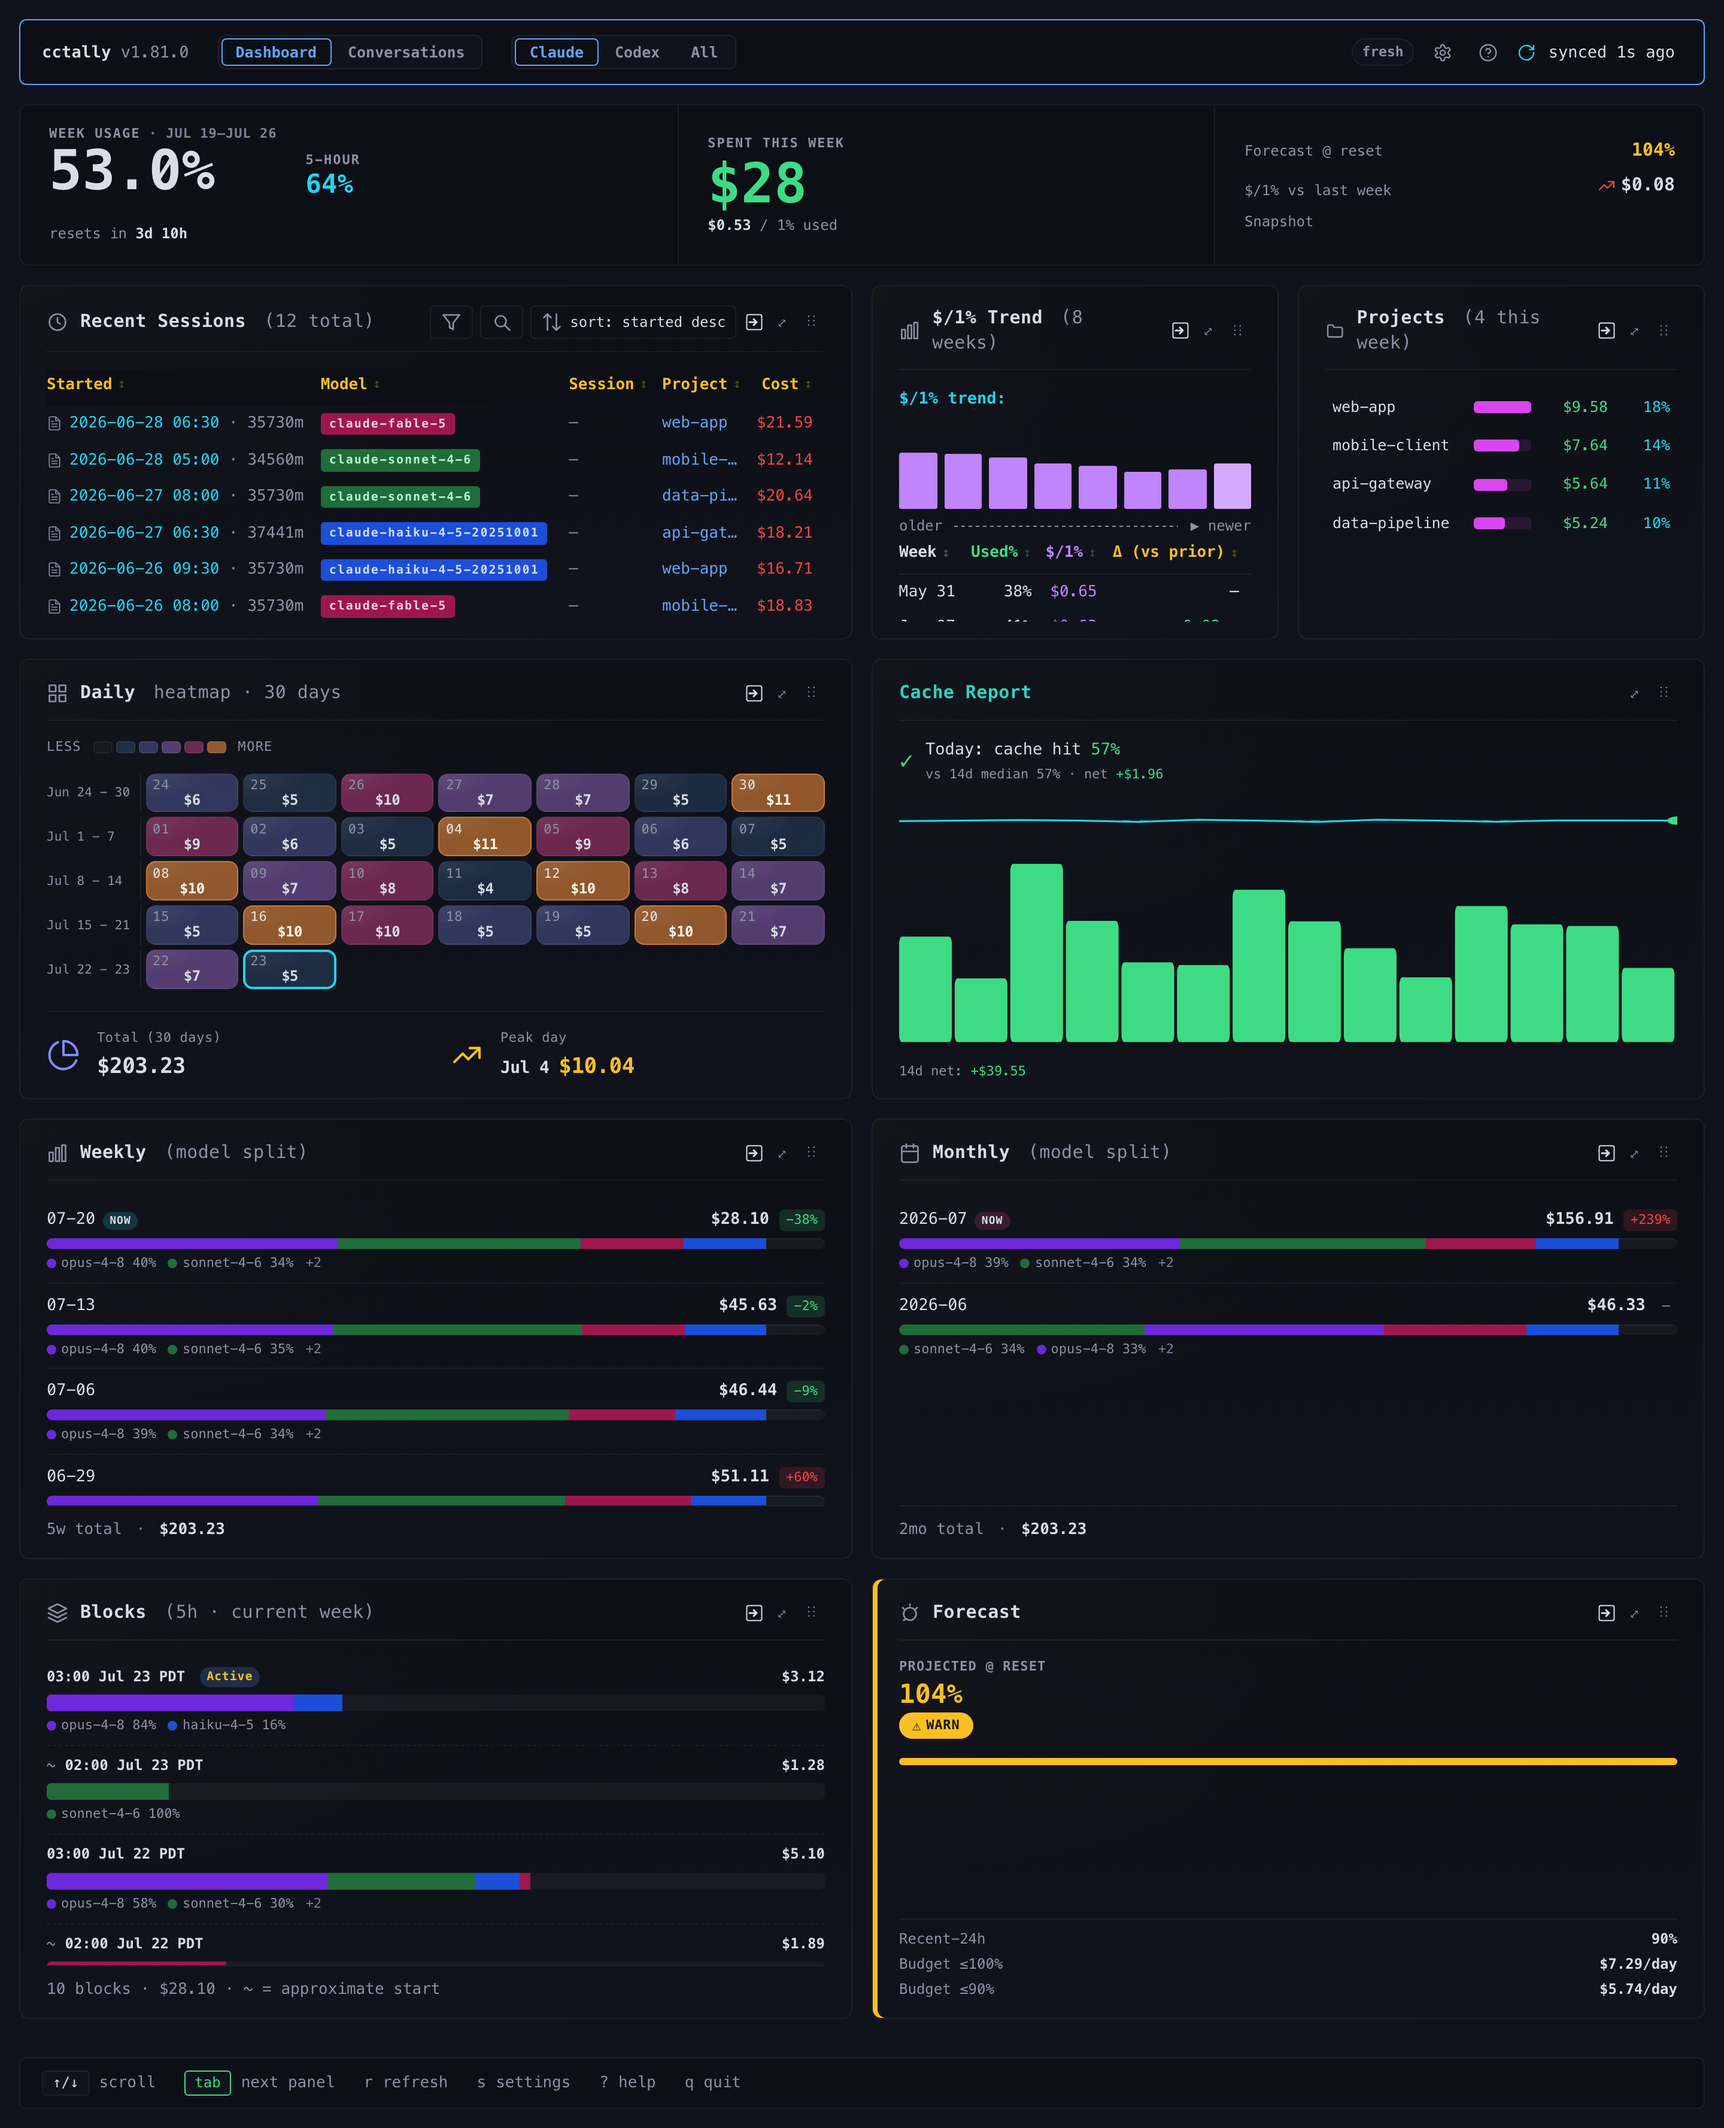
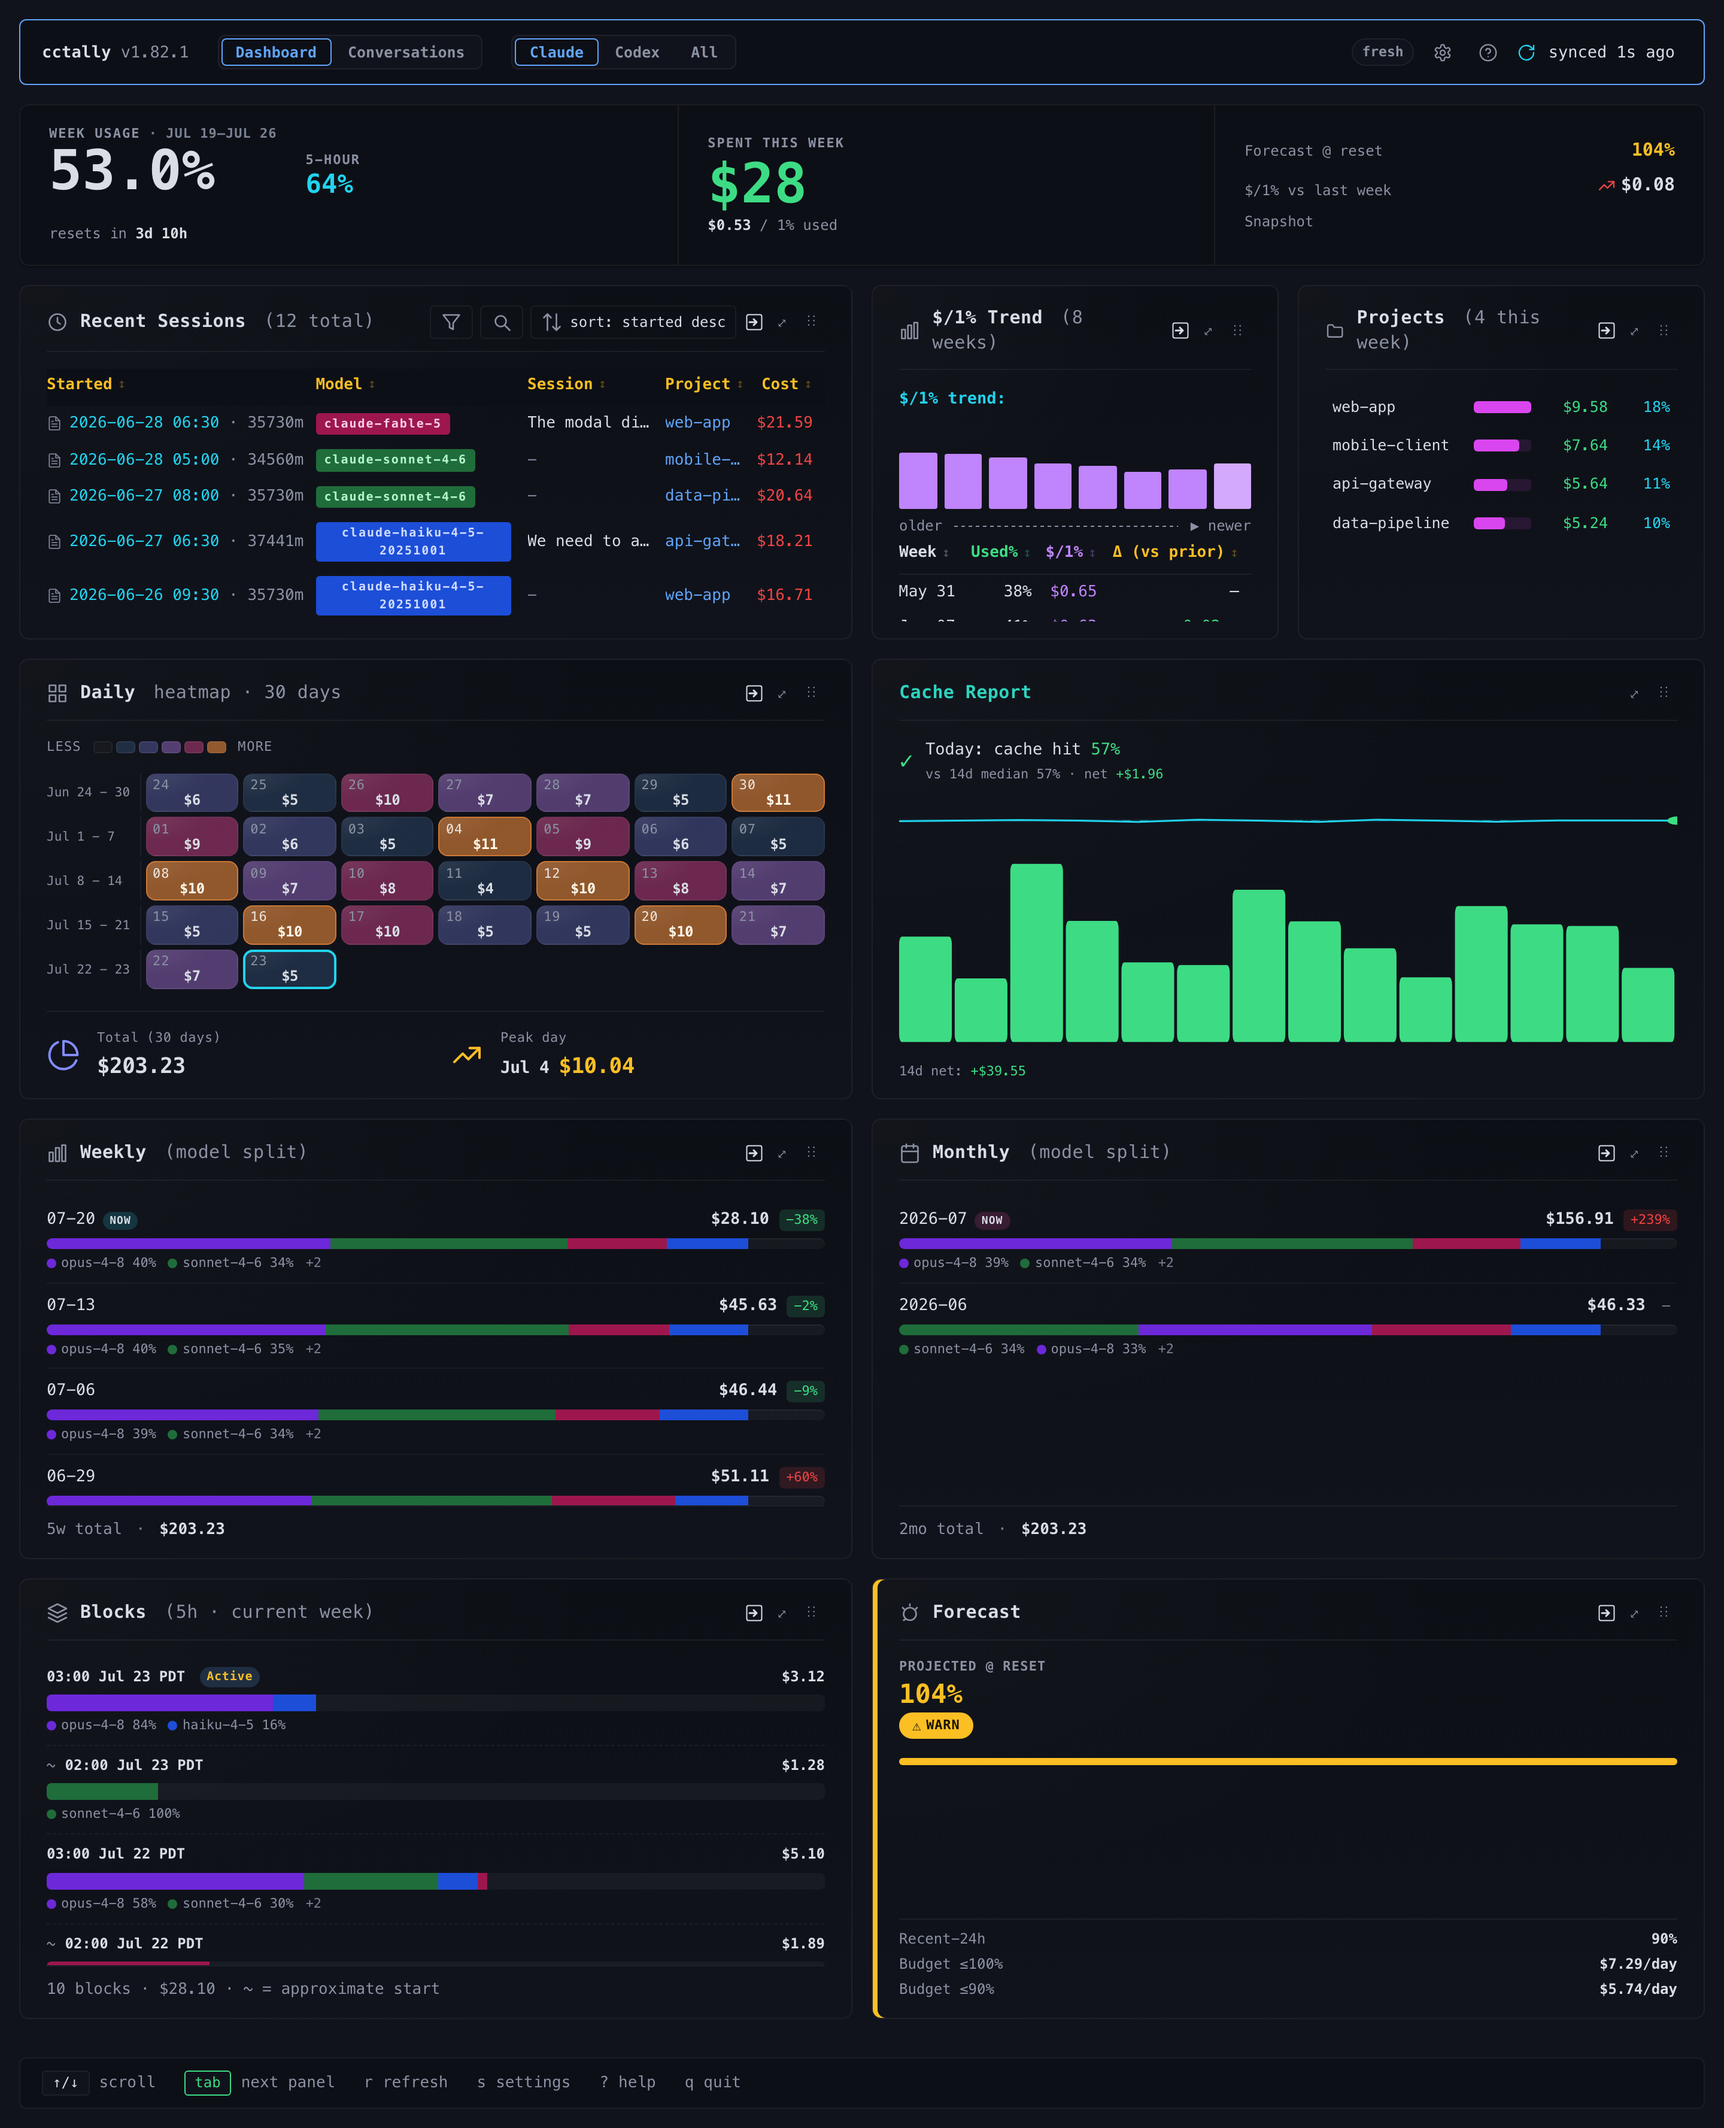
readme refresh for v1.82.1

diff --git a/README.md b/README.md
@@ -23,11 +23,11 @@ Your Claude Code plan meters you with a percentage that creeps up all week. ccta
 </p>
 
 <!-- cctally:latest-stable:begin -->
-**Latest stable: v1.81.0** (2026-07-24)
+**Latest stable: v1.82.1** (2026-07-24)
 
-- cctally now tracks usage per account for each provider: if you use more than one Claude or Codex account on this machine, each account's percent, 5-hour, and quota milestones, and their alerts, are recorded and fire independently instead of silently colliding.
-- New `cctally account list|show|label` subcommand shows every observed account (provider, label, email, plan, first/last seen, and which is currently active) and lets you set a durable friendly label that survives a stats rebuild.
-- Optional per-account weekly budgets via `config set budget.accounts` (Claude) and `config set budget.codex.accounts` (Codex); a budget targets an immutable account even after you rename its label, and a Codex per-account budget works without a vendor-wide amount.
+- The public README is a fresh, shorter screenshot-led tour, and it now refreshes itself on every stable release: promoting a release regenerates the screenshots against that exact version and updates a "Latest stable" highlights block on the GitHub page automatically.
+- The dashboard's Recent Sessions card shows session names again. Splitting transcript storage into its own database dropped the name lookup, so every row in the Session column had rendered a dash since then. Names come back from the stored conversation index, and a transcript store that is missing, locked, or rebuilding simply leaves the dash in place instead of holding up the rest of the dashboard.
+- The All tab's Recent Sessions rows now show Claude session names too, matching the Codex rows beside them; previously only Codex rows were named there. Names still appear only for a local viewer, exactly as on the Claude tab.
 <!-- cctally:latest-stable:end -->
 
 ## Quick start
